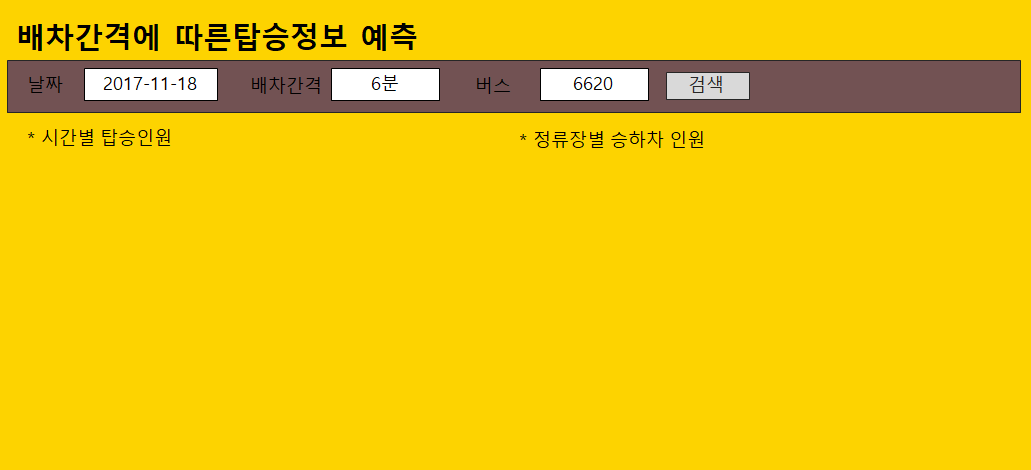
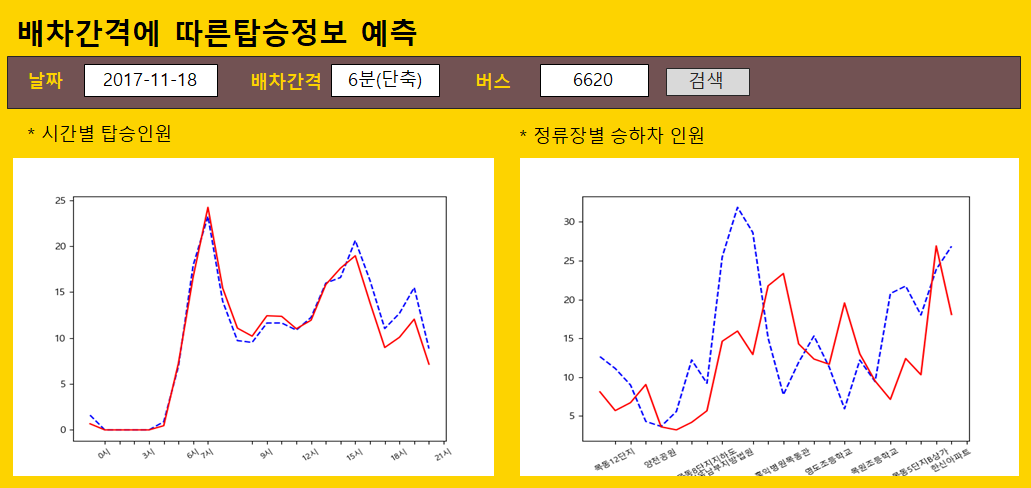
add bus-info and change navi design

diff --git a/webapp/assets/css/mysite.css b/webapp/assets/css/mysite.css
@@ -27,9 +27,9 @@ div#header	li a 			{ color:#4F4F4F; font-weight:bold; margin-left:10px; text-dec
 
 /* navigation */
 div#navigation ul			{ width:120px; margin-top:1px }
-div#navigation li			{ width:120px; background-color:#E9E9E9; border:1px solid #DADADA; margin-top:-1px }
+div#navigation li			{ width:120px; font-color:#725253; background-color:#FDDD00; border:1px solid #725253; margin-top:-1px }
 div#navigation li a			{ display:block; color:#4F4F4F; width:98px; font-weight:bold; padding:5px 10px; font-size:1.1em }
-div#navigation li.selected	{ background:#E0E0E0 }
+div#navigation li.selected	{ background:#FAAA50 }
 div#navigation li a:link	{ color:#4F4F4F; text-decoration:none; }
 div#navigation li a:hover	{ color:#4F4F4F; text-decoration:none; }
 div#navigation li a:visited	{ color:#4F4F4F; text-decoration:none; }

diff --git a/webapp/assets/css/realtime.css b/webapp/assets/css/realtime.css
@@ -2,7 +2,7 @@
 @import "mysite.css";
 
 
-#realtime		{ padding:20px;	width:1036px; height:1150px; background-color:#ffffff;}
+#realtime		{ padding:20px;	width:1036px; height:1180px; background-color:#ffffff;}
 #realtimeTest		{ padding:20px;	width:1036px; height:900px; background-color:#d8d8d8;}
 
 

diff --git a/webapp/assets/css/businfo.css b/webapp/assets/css/businfo.css
@@ -2,6 +2,6 @@
 @import "mysite.css";
 
 
-#passenger		{ padding:20px;	width:1036px; height:1230px; background-color:#ffffff;}
+#businfo			{ padding:20px;	width:1036px; height:1430px; background-color:#ffffff;}
 #realtimeTest		{ padding:20px;	width:1036px; height:900px; background-color:#d8d8d8;}
 

diff --git a/src/main/java/com/enter/sbms/controller/GatheringDataController.java b/src/main/java/com/enter/sbms/controller/GatheringDataController.java
@@ -1,0 +1,10 @@
+package com.enter.sbms.controller;
+
+import org.springframework.stereotype.Controller;
+import org.springframework.web.bind.annotation.RequestMapping;
+
+@Controller
+@RequestMapping("/GatheringData")
+public class GatheringDataController {
+
+}
